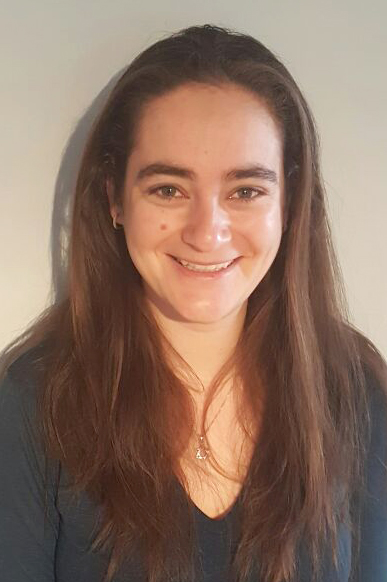
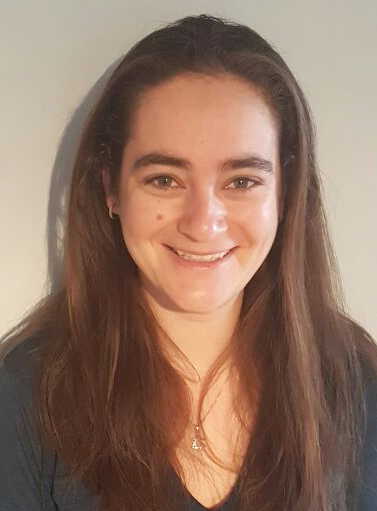
wip

diff --git a/unit_5/YTS3/css/style.css b/unit_5/YTS3/css/style.css
@@ -14,9 +14,10 @@ body{
 }
 
 main{
-	margin: 20px auto;
-	background: orange;
+	margin: auto;
+	/*background: orange;*/
 	max-width: 1200px ;
+	padding: 1em;
 	
 }
 
@@ -29,17 +30,34 @@ aside{
 nav a {
 	text-transform: uppercase;
 	font-size: 1em;
-	margin:0 1em;
+	color: #033D9F;
+	text-decoration: none;
+	margin: .4em;
 	padding: 5PX 10PX;
 	border: 2px solid #033D9F;
 	}
 
+nav a:hover { 
+    background-color: #033D9F;
+    color: white;
+}	
+
 	nav{
 	float: right;
+	margin: 1em;
 	}
 
 header{
-	padding: 20px;
+	/*background: orange;*/
+	max-width: 1200px ;
+	min-height: 6em;
+	padding: 1em;
+	margin: auto;
+}
+
+
+h1{
+
 }
 
 h2{
@@ -51,21 +69,20 @@ h2{
 
 h3 {
 	font-size: 1.2em;
-	
+	margin: 1em 0 0 0;
 	line-height: 1em;
 }
 
+h1+h3{
+	margin: 0;
+}
+
 h4{
-	font-size: .8em;
+	font-size: .9em;
 	color: #555555;
-	padding-bottom: .5em;
-
+	padding: .3em 0 .8em;
 }
 
-a{
-	color: #033D9F;
-	text-decoration: none;
-}
 
 
 footer{
@@ -86,15 +103,21 @@ footer{
 	}
 
 #section1{
-	background-color: yellow;
+	/*background-color: yellow;*/
+	margin: auto;
+}
+
+#section2{
+	/*background-color: yellow;*/
 	margin: auto;
 }
 
 .part{
-	background-color: grey;
+	/*background-color: grey;*/
 	float: left;
 	margin: 1%;
 	width: 31.3%;
+	min-height: 45em
 }
 
 .part img{
@@ -103,25 +126,29 @@ footer{
 
 .projects{
 	margin: auto;
-	background-color: blue;
+	/*background-color: blue;*/
 	width: 100%;
 }
 
 .about{
 	/*width: 40%;*/
-	float: left;
-	background-color: green;
+	/*float: left;*/
+	/*background-color: green;*/
 }
 
 .about img{
-	width: 20%;
+	width: 15%;
 	float: left;
 	/*display: block;*/
+	padding: 0 1em 0 0;
 }
 
+
+
 .about>p{
-	background-color: red;
+	/*background-color: red;*/
 	width: 30%;
+	float: left;
 	/*display: inline;*/
 }
 
